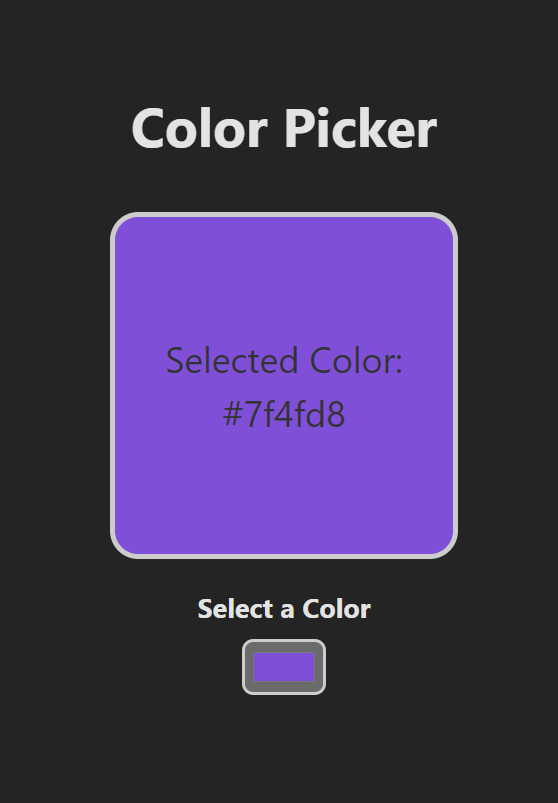
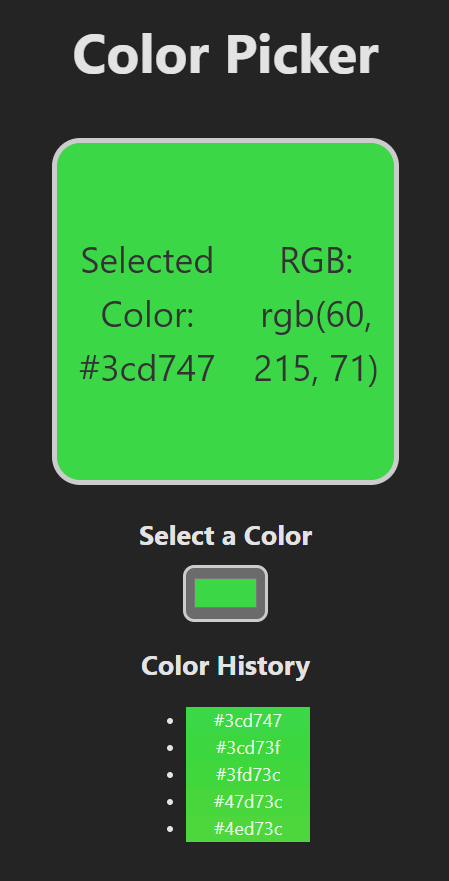
Initial Commit

diff --git a/src/components/ColorPicker.jsx b/src/components/ColorPicker.jsx
@@ -1,33 +1,83 @@
-import React, {useState} from "react"
-import '../styles/ColorPicker.css' 
+// import React, {useState} from "react"
+// import '../styles/ColorPicker.css' 
 
 
 
+
+// function ColorPicker() {
+//     const [color, setColor] = useState("#FFFFFF");
+
+//     function handleColorChange(event){
+//         setColor(event.target.value);
+//     }
+
+//     return(
+//         <div className="color-picker-container"> 
+//             <h1 className="h1-color-picker">Color Picker</h1>
+//             <div className="color-display" style={{backgroundColor: color}}>
+//                 <p>
+//                     Selected Color: {color}
+//                 </p>
+//             </div>
+//             <label>Select a Color</label>
+//             <input
+//                 type="color" 
+//                 value={color}
+//                 onChange={handleColorChange}
+//             />
+//         </div>
+//     );
+// }
+
+
+// export default ColorPicker
+
+import React, { useState } from "react";
+import "../styles/ColorPicker.css";
 
 function ColorPicker() {
-    const [color, setColor] = useState("#FFFFFF");
+  const [color, setColor] = useState("#FFFFFF");
+  const [history, setHistory] = useState([]);
 
-    function handleColorChange(event){
-        setColor(event.target.value);
-    }
+  function handleColorChange(event) {
+    const newColor = event.target.value;
+    setColor(newColor);
+    setHistory([newColor, ...history]);
+  }
 
-    return(
-        <div className="color-picker-container"> 
-            <h1 className="h1-color-picker">Color Picker</h1>
-            <div className="color-display" style={{backgroundColor: color}}>
-                <p>
-                    Selected Color: {color}
-                </p>
-            </div>
-            <label>Select a Color</label>
-            <input
-                type="color" 
-                value={color}
-                onChange={handleColorChange}
-            />
-        </div>
-    );
+  function hexToRGB(hex) {
+    let bigint = parseInt(hex.slice(1), 16);
+    let r = (bigint >> 16) & 255;
+    let g = (bigint >> 8) & 255;
+    let b = bigint & 255;
+    return `rgb(${r}, ${g}, ${b})`;
+  }
+
+  return (
+    <div className="color-picker-container">
+      <h1 className="h1-color-picker">Color Picker</h1>
+      <div className="color-display" style={{ backgroundColor: color }}>
+        <p>Selected Color: {color}</p>
+        <p>RGB: {hexToRGB(color)}</p>
+      </div>
+      <label>Select a Color</label>
+      <input
+        type="color"
+        value={color}
+        onChange={handleColorChange}
+      />
+      <div className="color-history">
+        <h2>Color History</h2>
+        <ul>
+          {history.slice(0, 5).map((col, index) => (
+            <li key={index} style={{ backgroundColor: col }}>
+              {col}
+            </li>
+          ))}
+        </ul>
+      </div>
+    </div>
+  );
 }
 
-
-export default ColorPicker
+export default ColorPicker;

diff --git a/README.md b/README.md
@@ -1,12 +1,109 @@
-# React + Vite
-
-This template provides a minimal setup to get React working in Vite with HMR and some ESLint rules.
-
-Currently, two official plugins are available:
-
-- [@vitejs/plugin-react](https://github.com/vitejs/vite-plugin-react/blob/main/packages/plugin-react/README.md) uses [Babel](https://babeljs.io/) for Fast Refresh
-- [@vitejs/plugin-react-swc](https://github.com/vitejs/vite-plugin-react-swc) uses [SWC](https://swc.rs/) for Fast Refresh
+# Color Picker 
 
 
-it looks like this:
+## Description
+This is a simple Color Picker application built with React and Vite. The application allows users to select a color from an input, displays the selected color, and shows its corresponding RGB value. Additionally, it maintains a history of previously selected colors.
+
+## Features
+- Select a color using a color input.
+- Display the selected color in both hex and RGB formats.
+- Maintain and display a history of the last five selected colors.
+
+## Technologies Used
+- React
+- Vite
+- CSS
+
+---
+
+## Getting Started
+
+### Prerequisites
+Make sure you have the following installed on your machine:
+- Node.js
+- npm (Node Package Manager) or yarn
+
+### Installation
+1. Clone the repository:
+    ```sh
+    git clone https://github.com/botzaifa/color-picker.git
+    ```
+2. Navigate to the project directory:
+    ```sh
+    cd color-picker
+    ```
+3. Install the dependencies:
+    ```sh
+    npm install
+    ```
+    or
+    ```sh
+    yarn install
+    ```
+
+### Running the Application
+To start the application, run:
+```sh
+npm run dev
+```
+or
+```sh
+yarn dev
+```
+The application should now be running on `http://localhost:3000`.
+
+---
+
+## Project Structure
+```
+color-picker/
+├── public/
+│   └── index.html
+├── src/
+│   ├── components/
+│   │   └── ColorPicker.jsx
+│   ├── styles/
+│   │   └── ColorPicker.css
+│   ├── App.jsx
+│   ├── main.jsx
+│   └── index.css
+├── .gitignore
+├── package.json
+├── README.md
+└── vite.config.js
+```
+
+### Components
+- `ColorPicker.jsx`: The main component that handles color selection and display.
+- `ColorPicker.css`: The CSS file for styling the Color Picker component.
+
+### Scripts
+- `dev`: Runs the application in development mode.
+- `build`: Builds the application for production.
+- `serve`: Serves the built application.
+
+## Usage
+1. Open the application in your web browser.
+2. Select a color using the color input.
+3. The selected color will be displayed along with its hex and RGB values.
+4. The history of the last five selected colors will be shown below the color input.
+
+## Contributing
+Contributions are welcome! Please fork the repository and submit a pull request for any features, bug fixes, or improvements.
+
+---
+
+
+
+
+## UI Screenshot
+`Here is a screenshot of the application UI:`
+
+
+
 ![Working UI](ui.png)
+
+
+---
+
+Thanks ~ **`Huzaifa <3`**
